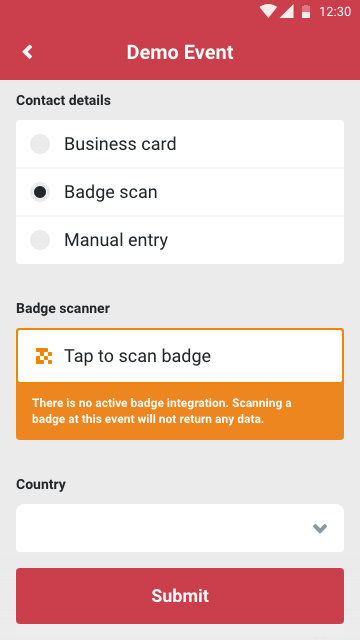
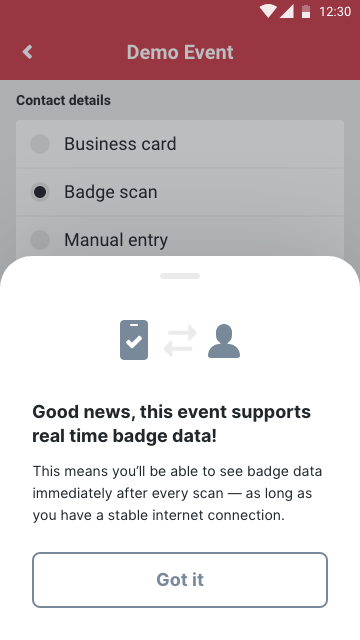
Final content for badge page revamp

diff --git a/akkroo-badge-scan-improvements.html b/akkroo-badge-scan-improvements.html
@@ -236,9 +236,38 @@
 			<section>
 				<h2>Outcome</h2>
 
-				<p>This project is a great example of how you can supercharge a feature just by focusing on the possible points of failure and making sure to design for when those happen.</p>
+				<div class="row">
 
-				<p>By doing so, we can build a trusting relationship with our users: they know that our product will let them know if anything goes wrong, giving them the chance to correct the mistake and giving them the peace of mind to focus on the task at hand.</p>
+
+					<div class="frame-container">
+
+						<div class="helper">
+							<p><i class="fas fa-hand-pointer"></i> Prototype</p>
+						</div>
+
+						<a class="play-trigger" href="https://xd.adobe.com/embed/59963157-10c7-4a94-5fcc-aafde432fd8e-2fa7/?fullscreen&hints=off" target="prototypeBadgeScanNew"><i class="fas fa-play"></i></a>
+
+						<iframe width="360" height="640" name="prototypeBadgeScanNew" src="about:blank" frameborder="0" allowfullscreen></iframe>
+
+					</div>
+
+					<div class="text">
+
+				
+						<p>This project is a great example of how you can supercharge a feature just by focusing on the possible points of failure and making sure to design for when those happen.</p>
+
+						<p>By doing so, we can build a trusting relationship with our users: they know that our product will let them know if anything goes wrong, giving them the chance to correct the mistake and giving them the peace of mind to focus on the task at hand.</p>
+
+
+						<div class="info prototype">
+							<p>Press "scan" on this prototype to try out the revamped badge scanner.</p>
+						</div>
+
+					</div>
+
+				</div>
+
+
 
 				<p><b>Value added:</b></p>
 

diff --git a/src/style.less b/src/style.less
@@ -805,6 +805,7 @@ ul.improvements > li:before {content: "\f00d";}
 		&[name="prototypeOnboarding"] {background-image: url('../assets/akkroo/preview-onboarding.png');}
 		&[name="prototypeUserFeedback"] {background-image: url('../assets/akkroo/preview-feedback.png');}
 		&[name="prototypeBadgeScanOld"] {background-image: url('../assets/akkroo/preview-badge-old.png');}
+		&[name="prototypeBadgeScanNew"] {background-image: url('../assets/akkroo/preview-badge-new.png');}
 	}
 }
 

diff --git a/prod/style.css b/prod/style.css
@@ -749,6 +749,9 @@ ul.improvements > li:before {
 .frame-container > iframe[name="prototypeBadgeScanOld"] {
   background-image: url('../assets/akkroo/preview-badge-old.png');
 }
+.frame-container > iframe[name="prototypeBadgeScanNew"] {
+  background-image: url('../assets/akkroo/preview-badge-new.png');
+}
 ul.thumbnails {
   padding: 0;
   margin: 40px -40px 0 -20px;
